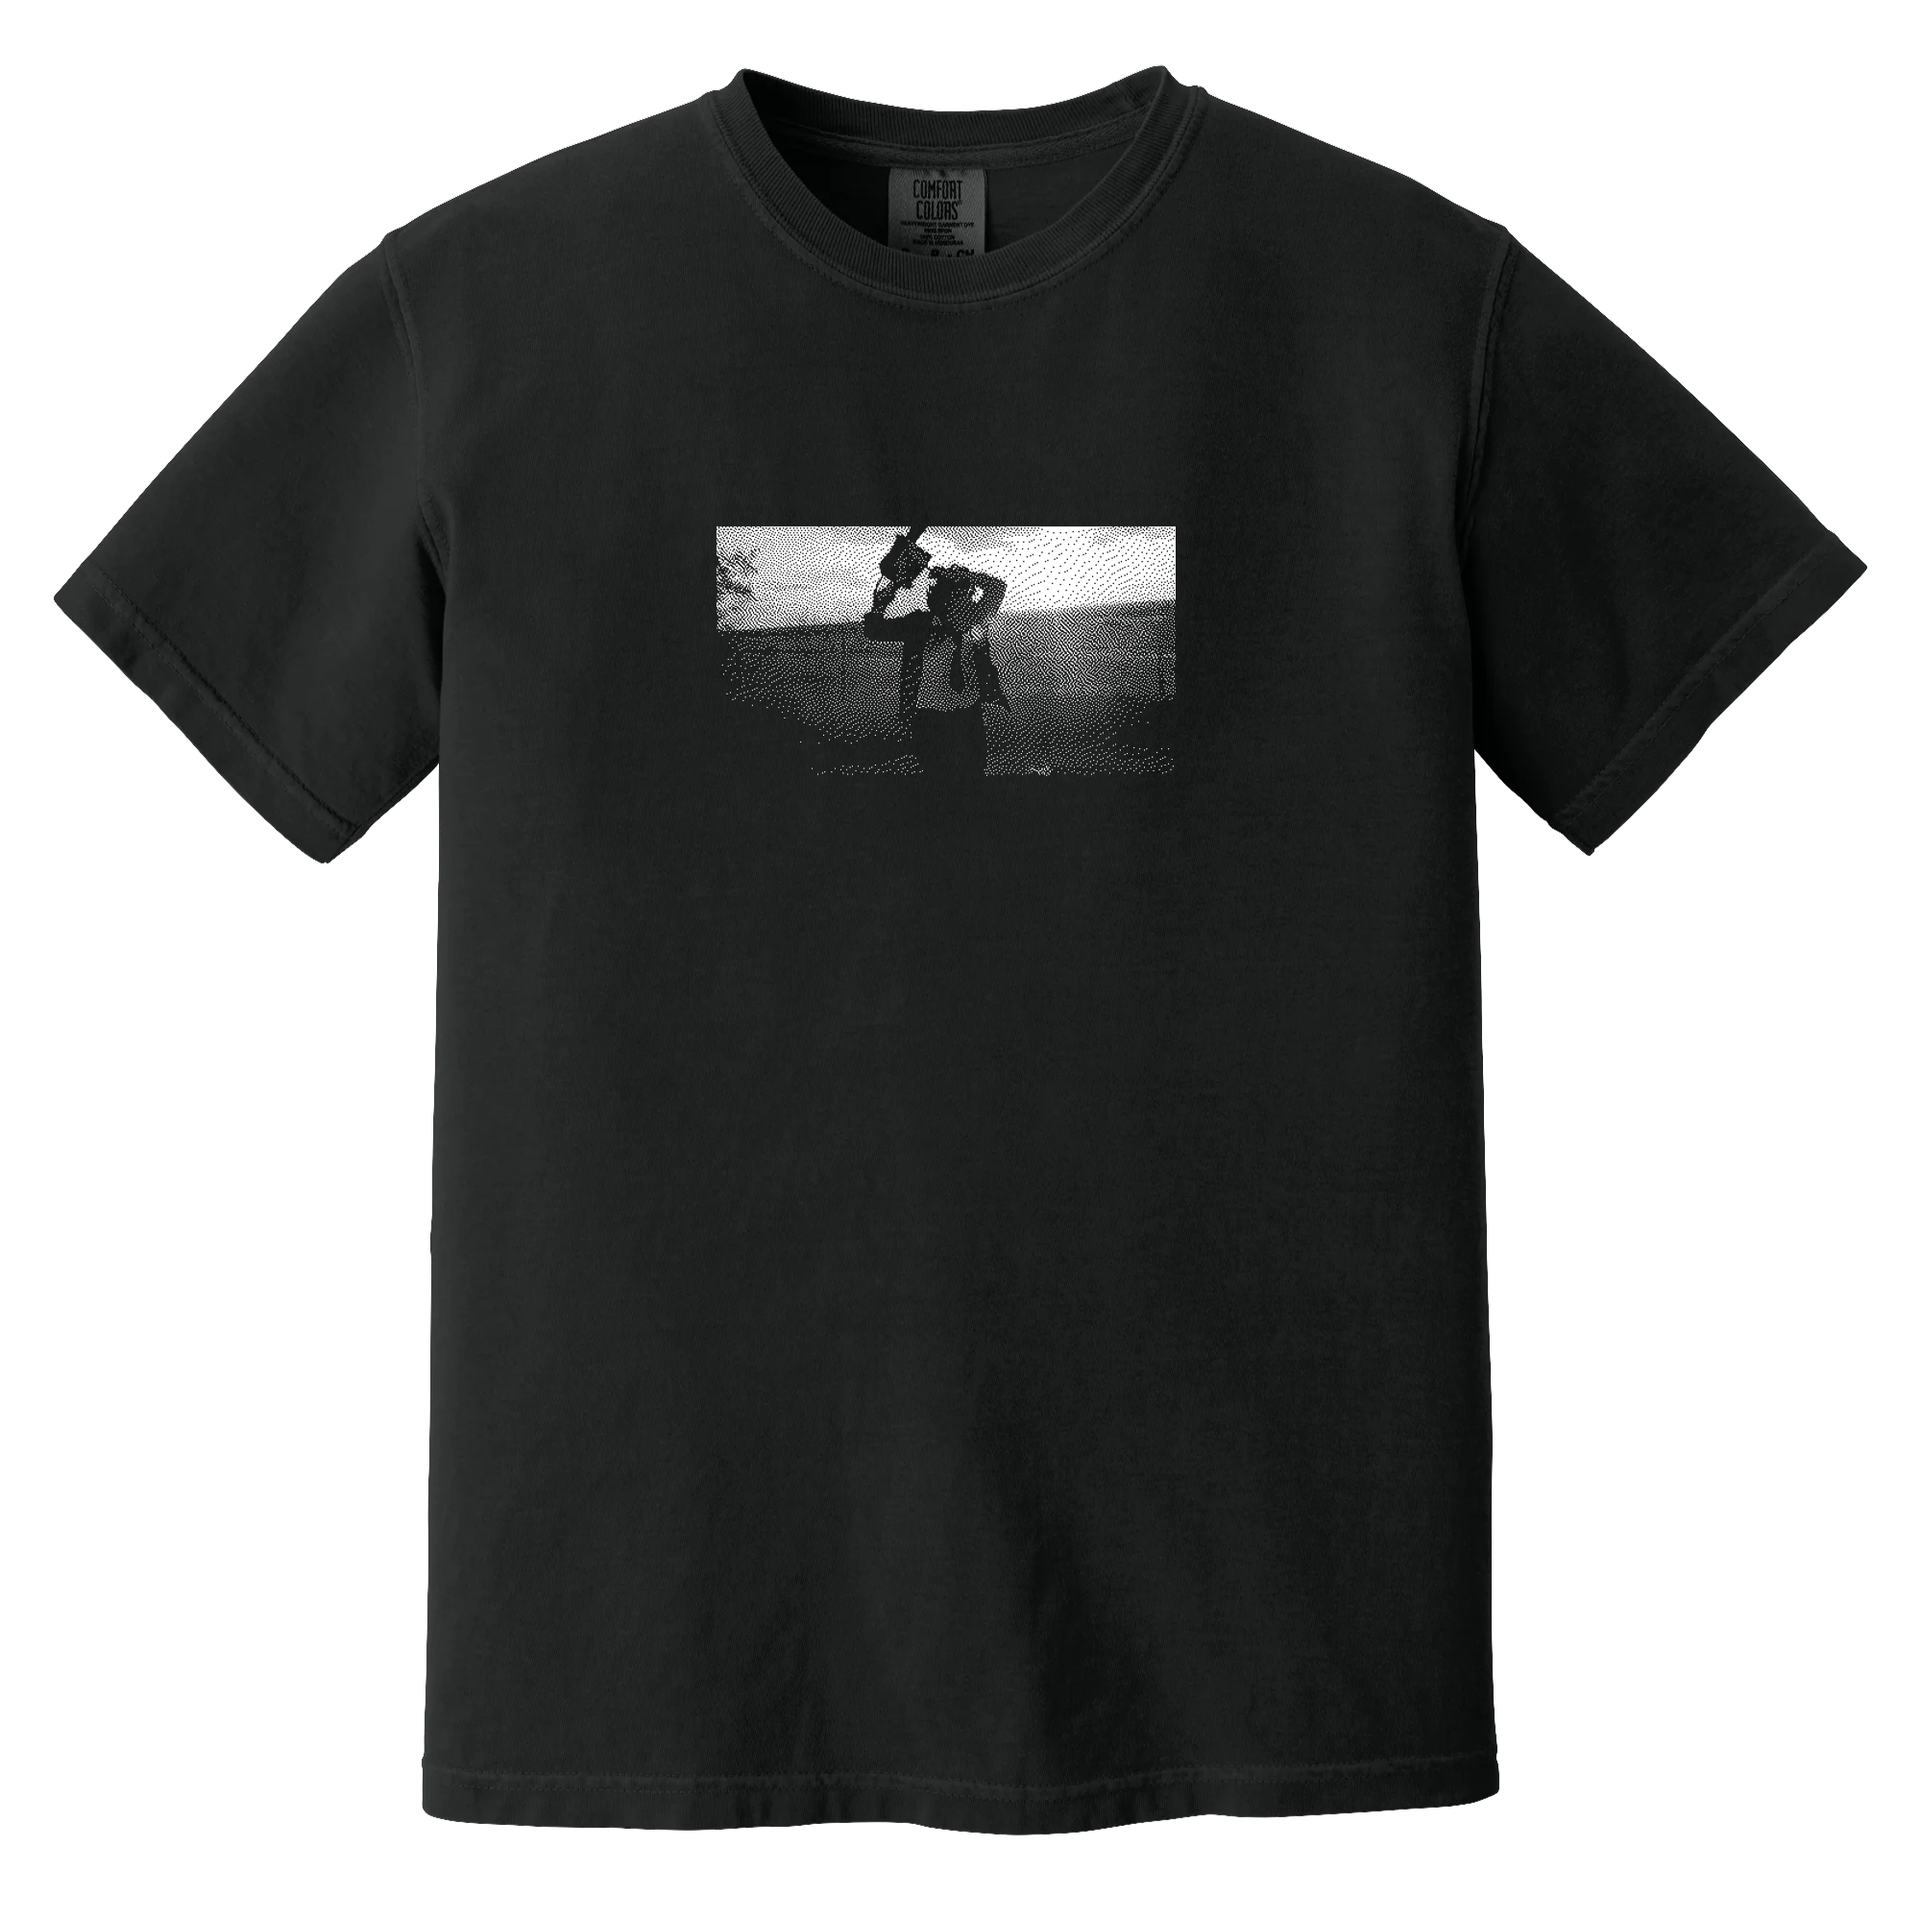
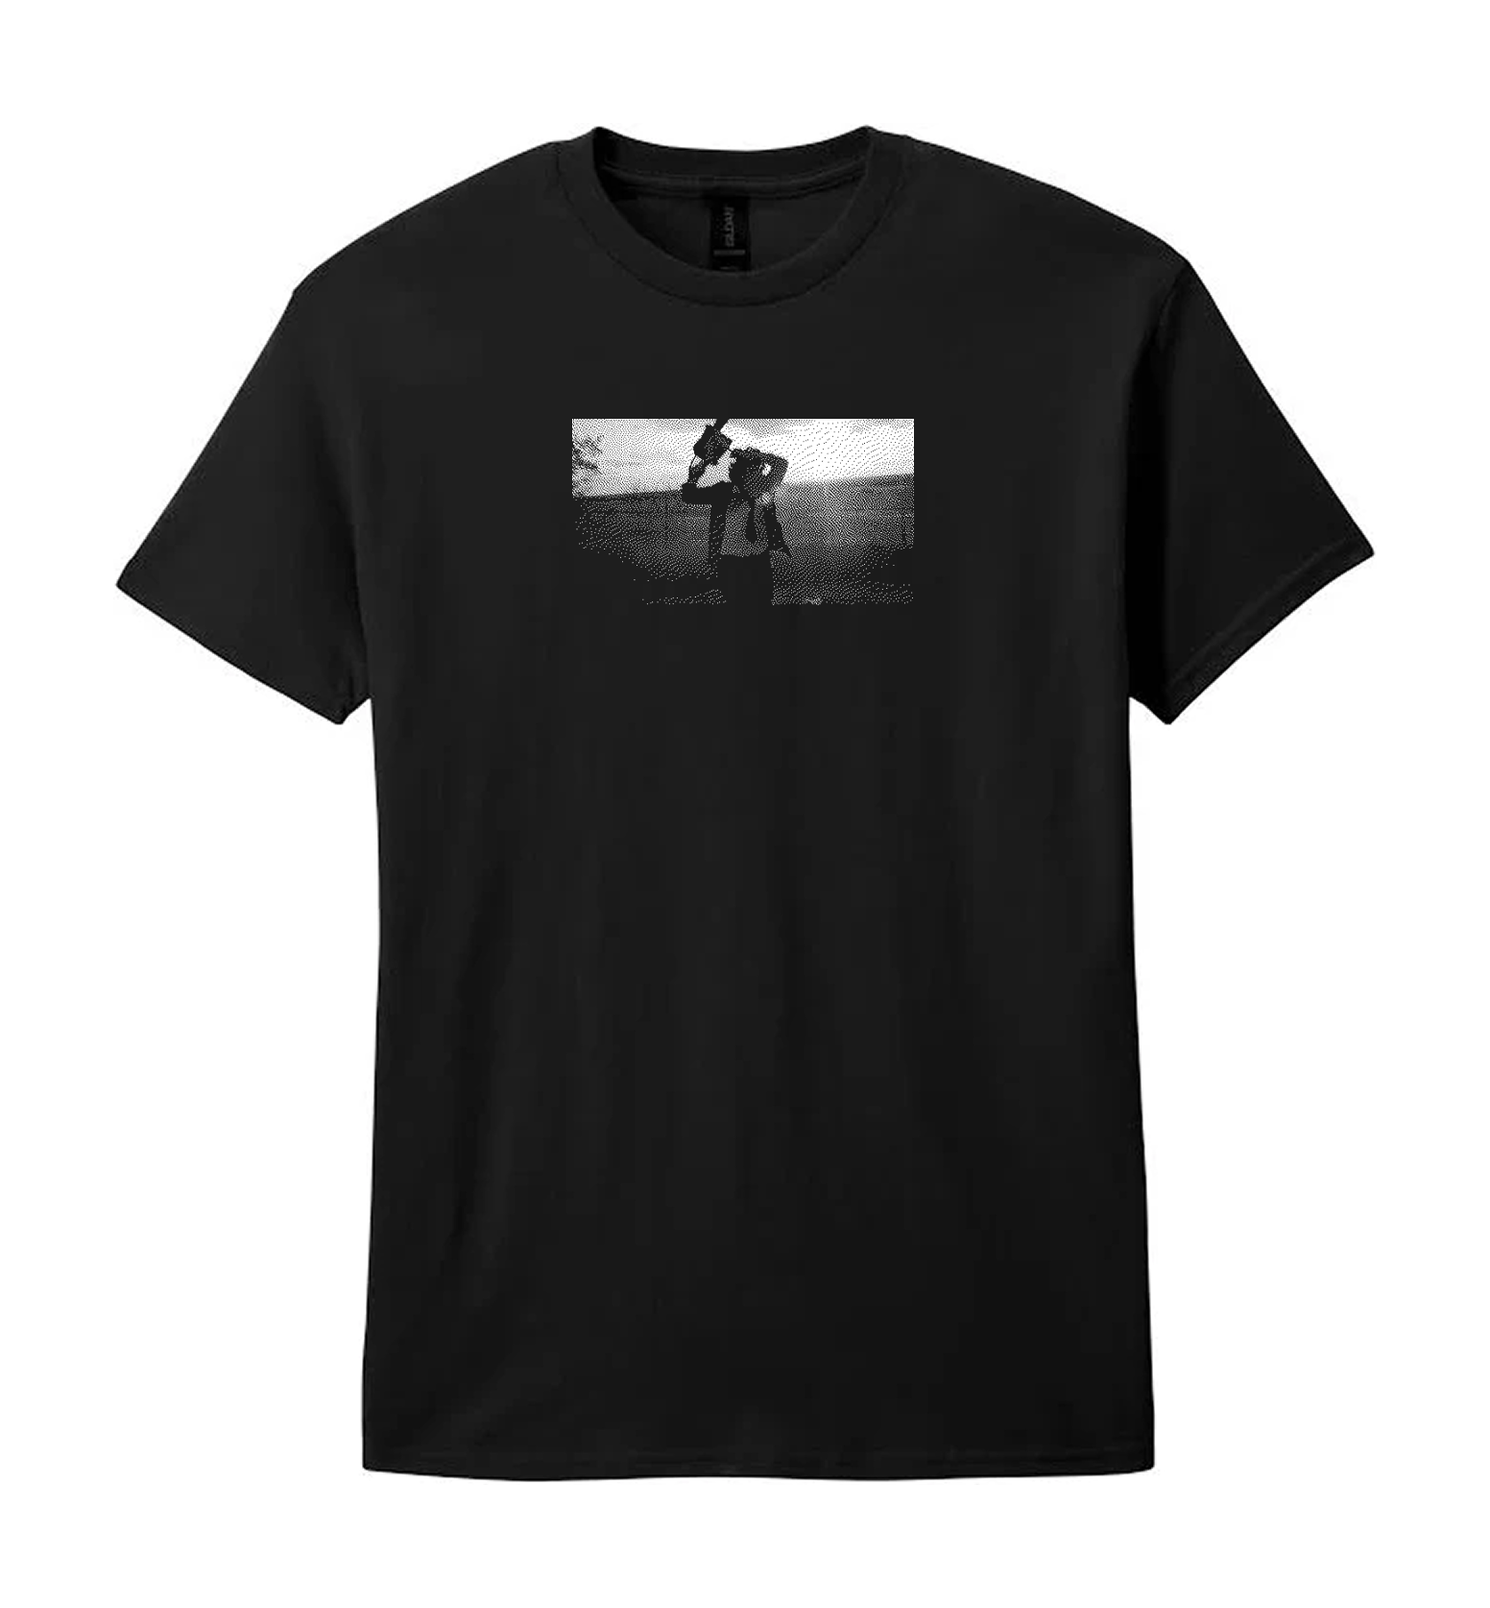
feat(docs): split-fountain art direction and the money section
Swaps the sheet over to the two-color look: gradient mockup as the
preview, and the white-on-transparent separation as the art file. That
file is invisible on white paper, so it sits on a black plate that
stands in for the shirt (with print-color-adjust so it survives a
print-to-PDF).

Adds a numbers block — blanks, Julia's $150 printing fee, cost each,
$30 sell price, profit. Every figure is derived from the size run plus
three inputs in specs.js, so changing a quantity or the fee updates the
whole block.

diff --git a/src/data/specs.js b/src/data/specs.js
@@ -14,13 +14,16 @@ export const SPECS = [
     subtitle: 'Screenprint Spec',
     issued: '2026-08-16',
 
+    // The art is white on transparent, so it needs a dark plate behind it
+    // on this white sheet — see `dark` below.
     art: {
-      href: '/images/docs/leatherface/leatherface-print-file-large.png',
+      href: '/images/docs/leatherface/leatherface-print-file-white.png',
       label: 'Art file',
-      note: 'White = ink',
+      note: 'One screen, one pull',
+      dark: true,
     },
     preview: {
-      href: '/images/docs/leatherface/leatherface-preview-tee.png',
+      href: '/images/docs/leatherface/leatherface-preview-tee-gradient.png',
       label: 'On the shirt',
       note: 'Mockup, not to scale',
     },
@@ -28,8 +31,13 @@ export const SPECS = [
     facts: [
       ['Print', '5 in wide — center chest'],
       ['Shirt', 'Comfort Colors 1717 — Black'],
-      ['Ink', '1 color — white'],
+      ['Ink', 'Split fountain — neon orange into neon pink'],
     ],
+
+    // Split fountain (a.k.a. rainbow roll): both inks are loaded side by
+    // side in the same screen and blend under a single pull.
+    inkNote:
+      'Two inks, one screen, one pull. The blend shifts a little every pull, so no two shirts come out identical — that is the point.',
 
     // qty/unit are numbers so the page computes the totals — no hand-math
     // that can drift out of sync with the line items.
@@ -40,6 +48,14 @@ export const SPECS = [
       { size: 'XL', qty: 5, unit: 6.87 },
       { size: '2XL', qty: 3, unit: 10.44 },
     ],
+
+    // Everything downstream of this (cost per shirt, profit) is computed on
+    // the page from these three numbers plus the size run.
+    money: {
+      printingFee: 150,
+      printer: 'Julia',
+      sellPrice: 30,
+    },
   },
 ];
 
